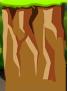
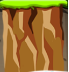
Add files via upload

diff --git a/jumpBot/main.py b/jumpBot/main.py
@@ -8,11 +8,11 @@ from bot import Bot
 
 # Change the working directory to the folder this script is in.
 # Doing this because I'll be putting the files from each video in their own folder on GitHub
-os.chdir(os.path.dirname(os.path.abspath(__file__)))
+#os.chdir(os.path.dirname(os.path.abspath(__file__)))
 
 
 # initialize the WindowCapture class
-wincap = WindowCapture('BlueStacks')
+wincap = WindowCapture()
 # initialize the Vision class
 vision_pilar1 = Vision('pilar1.png')
 vision_pilar2 = Vision('pilar2.png')
@@ -21,7 +21,8 @@ vision_pilar3 = Vision('pilar3.png')
 vision_pilar5 = Vision('pilar5.png')
 vision_pilar6 = Vision('pilar6.png')
 vision_pilar7 = Vision('pilar7.png')
-vision_pilar62 = Vision('pilar62.png')
+#vision_pilar62 = Vision('pilar62.png')
+vision_pilarPr = Vision('pilarpr.png')
 
 loop_time = time()
 while(True):
@@ -35,20 +36,24 @@ while(True):
     points_5 = []
     points_6 = []
     points_7 = []
-    points_62 = []
+    #points_62 = []
+    points_pr =[]
     # display the processed image
-    points_1 = vision_pilar1.find(screenshot, 0.5, 'rectangles')
-    points_2 = vision_pilar2.find(screenshot, 0.5, 'rectangles')
-    points_3 = vision_pilar3.find(screenshot, 0.5, 'rectangles')
+    points_1 = vision_pilar1.find(screenshot, 0.45, 'rectangles')
+    points_2 = vision_pilar2.find(screenshot, 0.6, 'rectangles')
+    points_3 = vision_pilar3.find(screenshot, 0.6, 'rectangles')
     #points_4 = vision_pilar4.find(screenshot, 0.5)
-    points_5 = vision_pilar5.find(screenshot, 0.5, 'rectangles')
-    points_6 = vision_pilar6.find(screenshot, 0.5, 'rectangles')
-    points_7 = vision_pilar7.find(screenshot, 0.5, 'rectangles')
-    points_62 = vision_pilar62.find(screenshot,0.8, 'rectangles')
-    if len(points_1) or len(points_2) or len(points_3) or len(points_5) or len(points_6) or len(points_7) or len(points_62):
+    points_5 = vision_pilar5.find(screenshot, 0.6, 'rectangles')
+    points_6 = vision_pilar6.find(screenshot, 0.6, 'rectangles')
+    points_7 = vision_pilar7.find(screenshot, 0.6, 'rectangles')
+    points_pr = vision_pilarPr.find(screenshot, 0.69, 'rectangles')
+    #points_62 = vision_pilar62.find(screenshot,0.5, 'rectangles')
+    if len(points_pr):
+        print('pilar prohibido')
+    elif len(points_1) or len(points_2) or len(points_3) or len(points_5) or len(points_6) or len(points_7):
         clicker = Bot()
         clicker.click()
-        
+    
 
 
     # debug the loop rate

diff --git a/jumpBot/windowcapture.py b/jumpBot/windowcapture.py
@@ -27,16 +27,16 @@ class WindowCapture:
 
         # get the window size
         window_rect = win32gui.GetWindowRect(self.hwnd)
-        self.w = window_rect[2] - window_rect[0]-80
-        self.h = window_rect[3] - window_rect[1]
+        self.w = window_rect[2] - window_rect[0]-1450
+        self.h = window_rect[3] - window_rect[1]-150
 
         # account for the window border and titlebar and cut them off
         border_pixels = 125
         titlebar_pixels = 590
         self.w = self.w - (border_pixels * 2)
         self.h = self.h - titlebar_pixels - border_pixels-50
-        self.cropped_x = border_pixels-115
-        self.cropped_y = titlebar_pixels
+        self.cropped_x = border_pixels-120
+        self.cropped_y = titlebar_pixels+165
 
         # set the cropped coordinates offset so we can translate screenshot
         # images into actual screen positions

diff --git a/jumpBot/bot.py b/jumpBot/bot.py
@@ -2,16 +2,16 @@ from pyautogui import *
 import pyautogui
 import time
 import win32api, win32con
-
+#.72
 #pyautogui.displayMousePosition()
 #X:  150 Y:  826
 class Bot:
     time.sleep(2)
     def __init__(self):
         pass
-
+    #.68 known good
     def click(self):
         win32api.SetCursorPos((240,640))
         win32api.mouse_event(win32con.MOUSEEVENTF_LEFTDOWN,0,0)
-        time.sleep(.68)
+        time.sleep(.7)
         win32api.mouse_event(win32con.MOUSEEVENTF_LEFTUP,0,0)
